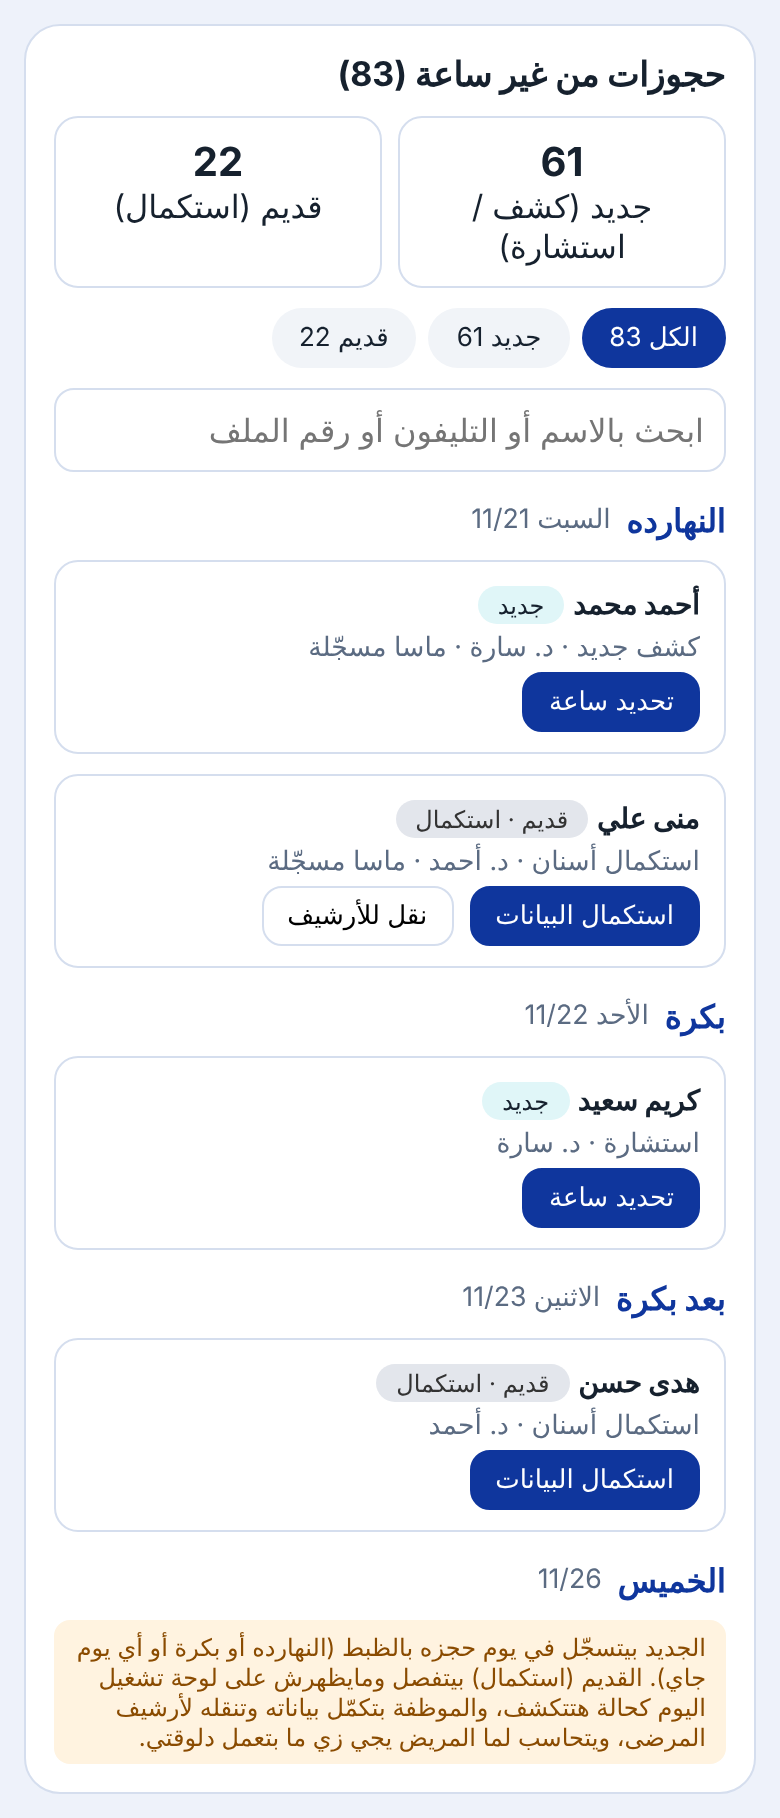
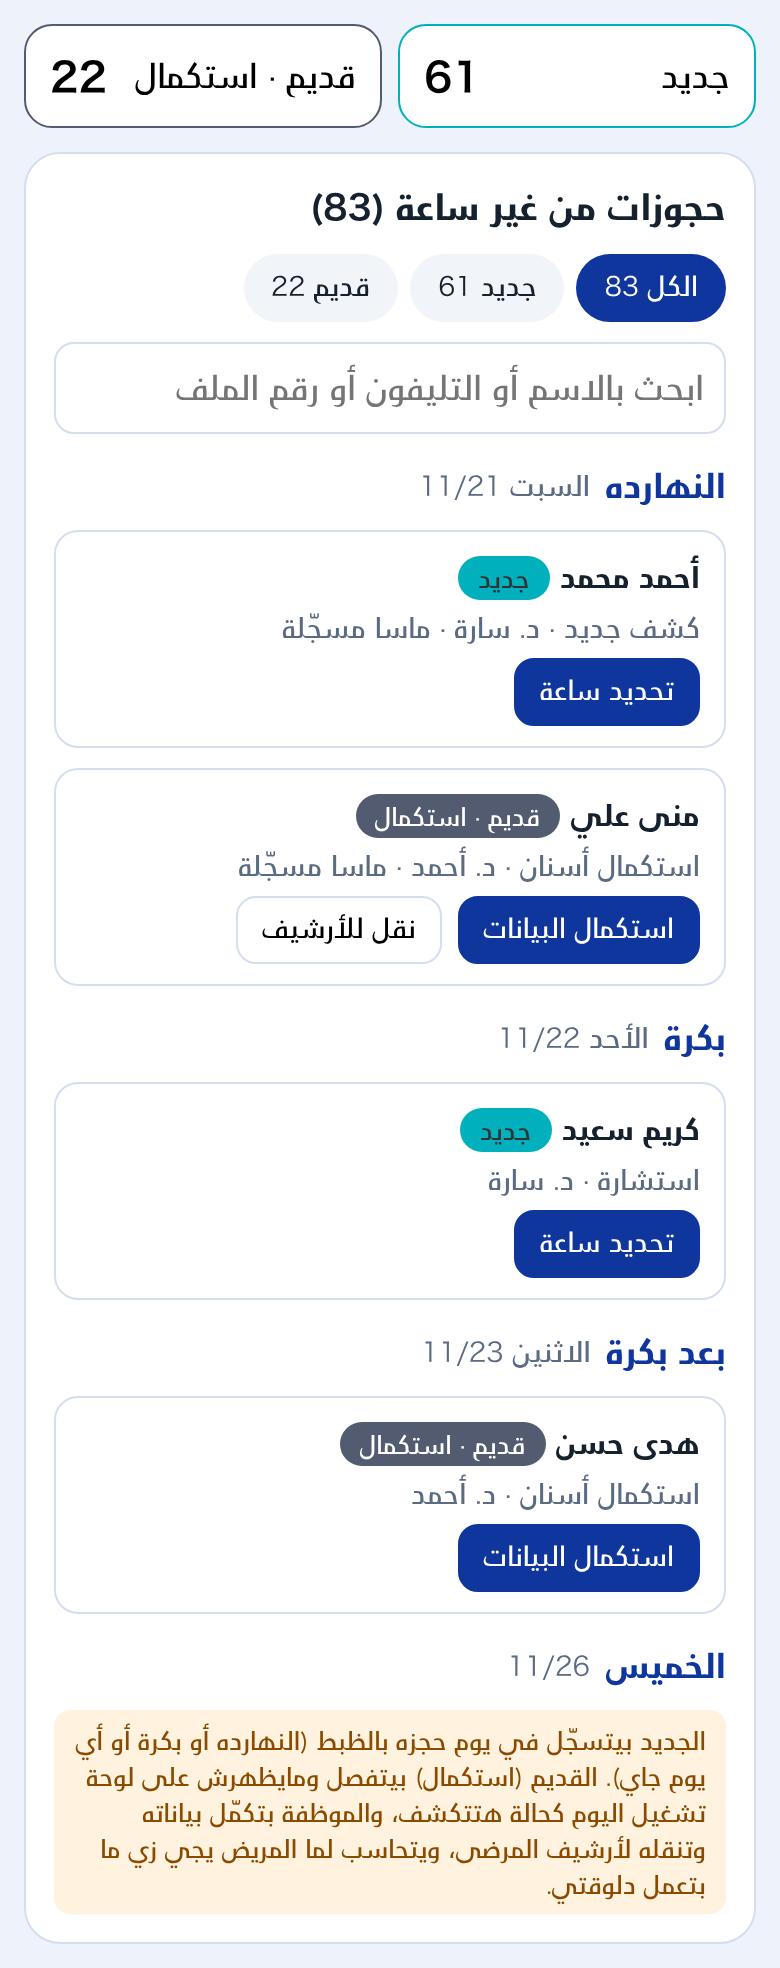
Mockup: Masa old/new — palette, fonts, no wrapping, layout-check passes
Claude-Session: https://claude.ai/code/session_01UqVZHaB84bosb26ToEYYkt

diff --git a/docs/ui-references/mockups/masa-old-new.html b/docs/ui-references/mockups/masa-old-new.html
@@ -1,16 +1,17 @@
 <!doctype html><html lang="ar" dir="rtl"><meta charset="utf-8"><meta name="viewport" content="width=device-width,initial-scale=1"><title>تصور: حجوزات من غير ساعة — جديد / قديم</title>
-<style>body{margin:0;padding:12px;background:#eef2fa;font-family:"Hiragino Kaku","BigVesta Arabic",system-ui,Tahoma,sans-serif;color:#16212E}
+<style>@font-face{font-family:"BigVesta Arabic";src:url("../../../assets/fonts/BigVesta-Regular.woff2") format("woff2");font-weight:400}@font-face{font-family:"BigVesta Arabic";src:url("../../../assets/fonts/BigVesta-Bold.woff2") format("woff2");font-weight:700}@font-face{font-family:"Hiragino Kaku";src:url("../../../assets/fonts/Hiragino-W3.woff2") format("woff2");font-weight:300}@font-face{font-family:"Hiragino Kaku";src:url("../../../assets/fonts/Hiragino-W6.woff2") format("woff2");font-weight:600}
+*{box-sizing:border-box}body{margin:0;padding:12px;background:#eef2fa;font-family:"Hiragino Kaku","BigVesta Arabic",system-ui,Tahoma,sans-serif;color:#16212E}
 .pop{background:#fff;border:1px solid #D5DEEE;border-radius:18px;padding:14px;max-width:760px;margin:auto;display:grid;gap:10px}
-h3{margin:0;font-size:17px}.seg{display:flex;gap:6px;flex-wrap:wrap}.seg span{padding:7px 14px;border-radius:999px;background:#F1F4F8;font-size:13px;white-space:nowrap}.seg .on{background:#0F369D;color:#fff}.seg .old.on{background:#525B6F}
+h3{margin:0;font-size:17px}.seg{display:flex;gap:6px;flex-wrap:wrap}.seg span{padding:7px 14px;border-radius:999px;background:#F1F4F8;font-size:13px;white-space:nowrap}.seg .on{background:#0F369D;color:#fff}.seg .old.on{background:#525B6F;color:#fff}
 input{font:inherit;padding:10px;border:1px solid #D5DEEE;border-radius:10px;width:100%;box-sizing:border-box}
 .day{font-weight:700;color:#0F369D;margin-top:4px;display:flex;gap:8px;align-items:center}.day small{color:#5b6b82;font-weight:400}
 .it{border:1px solid #D5DEEE;border-radius:12px;padding:10px 12px;display:grid;gap:4px}.it b{font-size:14px}.it small{color:#5b6b82}
-.tag{display:inline-block;padding:2px 10px;border-radius:999px;font-size:12px}.new{background:#E0F6F8;color:#16212E}.oldt{background:#E3E6EC;color:#333}
+.tag{display:inline-block;padding:2px 10px;border-radius:999px;font-size:12px;white-space:nowrap}.new{background:#00B0BD;color:#333}.oldt{background:#525B6F;color:#fff}
 .act{display:flex;gap:8px;flex-wrap:wrap}.btn{border:1px solid #D5DEEE;background:#fff;border-radius:10px;padding:6px 12px;font:inherit;font-size:13px;white-space:nowrap}.pri{background:#0F369D;color:#fff;border-color:#0F369D}
 .note{font-size:12px;color:#8a4b00;background:#FFF3E0;border-radius:8px;padding:6px 10px}
-.tiles{display:grid;grid-template-columns:1fr 1fr;gap:8px}.tile{border:1px solid #D5DEEE;border-radius:12px;padding:10px;background:#fff;text-align:center}.tile b{display:block;font-size:20px}</style>
+.tiles{display:grid;grid-template-columns:repeat(2,minmax(0,1fr));gap:8px;max-width:760px;margin:0 auto 12px}.tile{border:1px solid #D5DEEE;border-radius:14px;padding:10px 12px;background:#fff;display:flex;align-items:center;justify-content:space-between;gap:8px;white-space:nowrap;font:inherit}.tile b{font-size:20px}.tile.n{border-color:#00B0BD}.tile.o{border-color:#525B6F}</style>
+<div class="tiles"><button class="tile n"><span>جديد</span><b>61</b></button><button class="tile o"><span>قديم · استكمال</span><b>22</b></button></div>
 <div class="pop"><h3>حجوزات من غير ساعة (83)</h3>
-<div class="tiles"><div class="tile"><b>61</b>جديد (كشف / استشارة)</div><div class="tile"><b>22</b>قديم (استكمال)</div></div>
 <div class="seg"><span class="on">الكل 83</span><span>جديد 61</span><span class="old">قديم 22</span></div>
 <input placeholder="ابحث بالاسم أو التليفون أو رقم الملف">
 <div class="day">النهارده <small>السبت 11/21</small></div>
